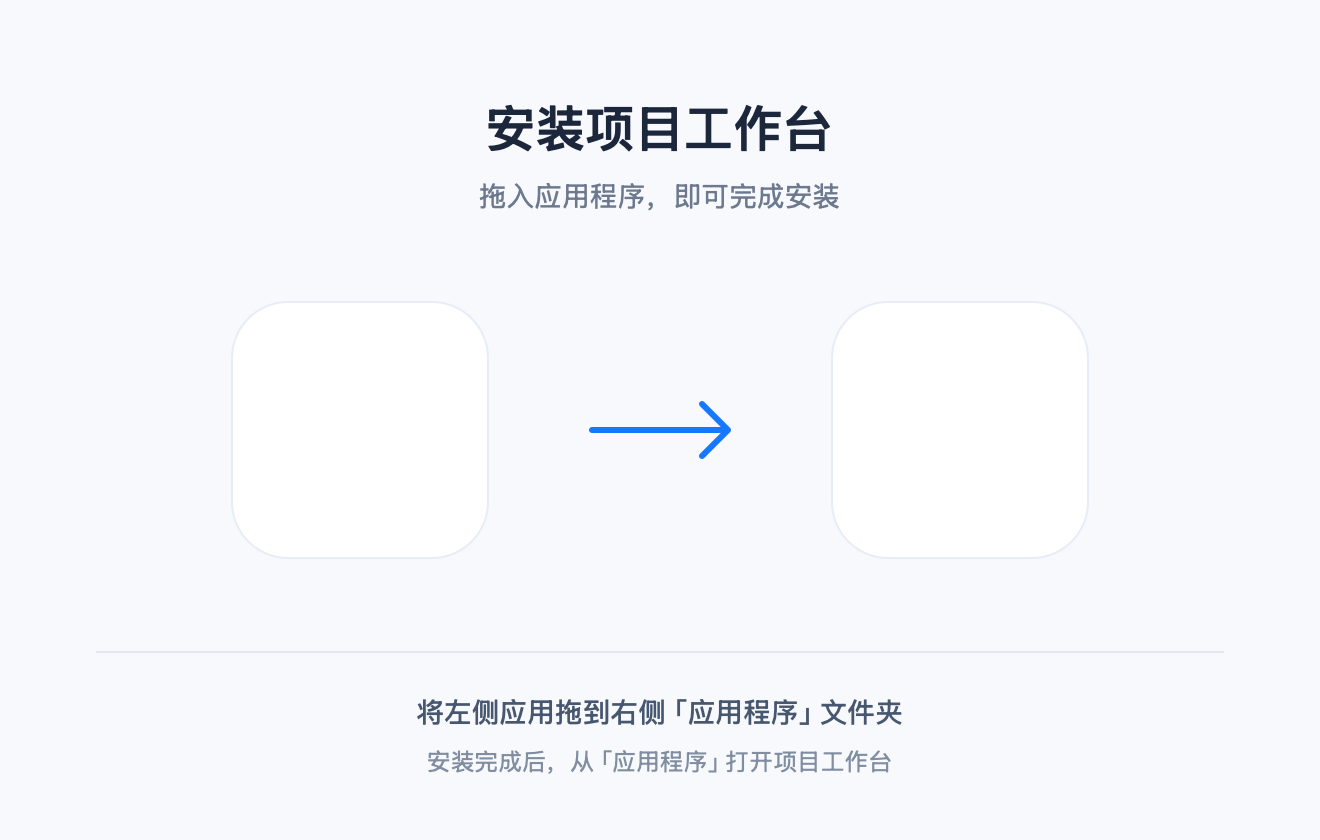
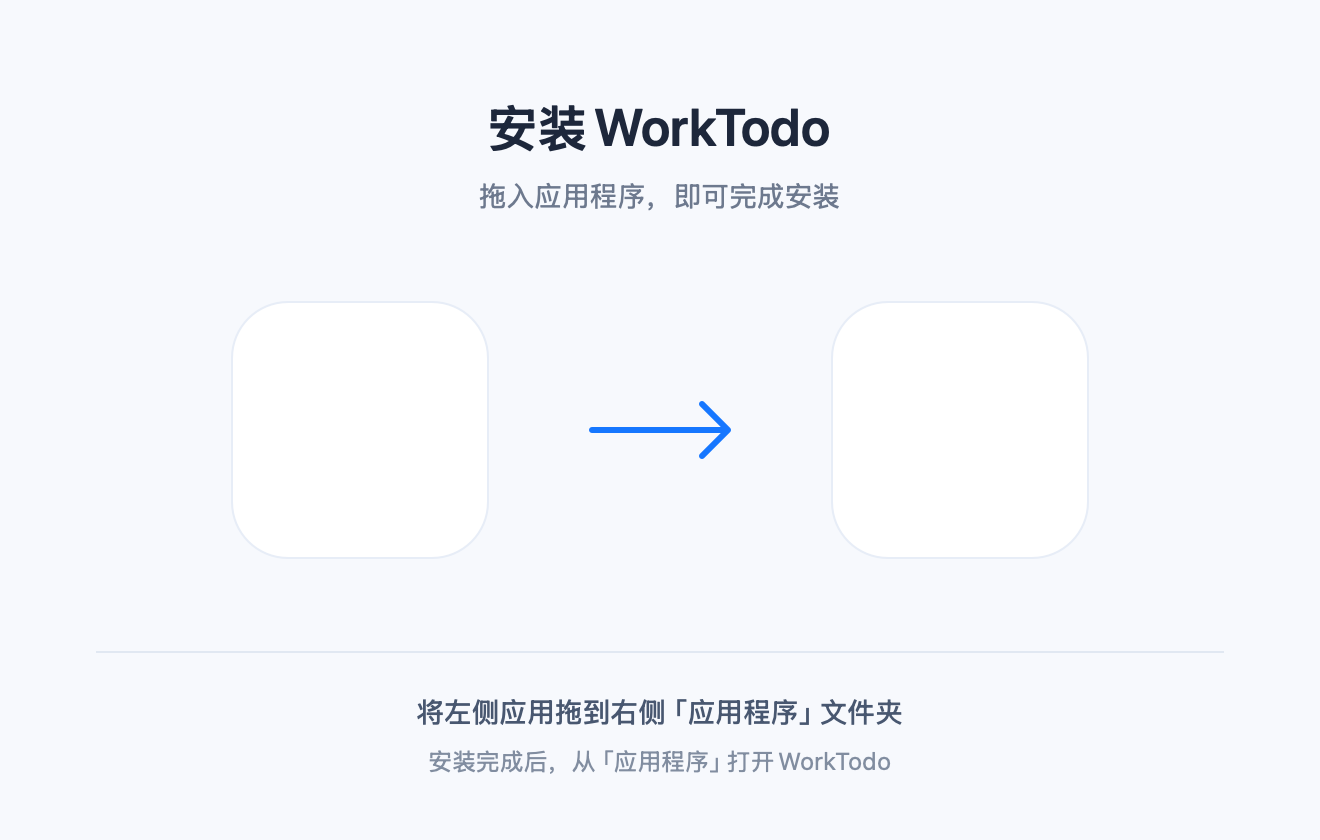
feat: 统一 WorkTodo 命名并规范 Release 应用资源
同步应用、系统菜单、安装界面和下载文件名称，保留原有数据标识兼容。新增 Windows 应用压缩包，发布阶段严格限定双平台安装包及应用 ZIP，内部校验报告不再作为 Release 附件。

Changed region(s): [[0.3727, 0.1238, 0.6212, 0.1857], [0.4348, 0.8976, 0.6833, 0.9286], [0.3106, 0.8976, 0.4038, 0.9286]]

diff --git a/scripts/generate-dmg-background.swift b/scripts/generate-dmg-background.swift
@@ -44,7 +44,7 @@ func text(_ value: String, y: CGFloat, size: CGFloat, weight: NSFont.Weight, ink
 color(247, 249, 253).setFill()
 NSBezierPath(rect: NSRect(x: 0, y: 0, width: width, height: height)).fill()
 
-text("安装项目工作台", y: 48, size: 26, weight: .semibold, ink: color(29, 39, 59))
+text("安装WorkTodo", y: 48, size: 26, weight: .semibold, ink: color(29, 39, 59))
 text("拖入应用程序，即可完成安装", y: 89, size: 14, weight: .regular, ink: color(109, 121, 142))
 
 // Subtle wells frame the real, draggable Finder icons.
@@ -76,7 +76,7 @@ divider.line(to: NSPoint(x: 612, y: 326))
 divider.lineWidth = 1
 divider.stroke()
 text("将左侧应用拖到右侧「应用程序」文件夹", y: 347, size: 14, weight: .medium, ink: color(72, 87, 112))
-text("安装完成后，从「应用程序」打开项目工作台", y: 373, size: 12, weight: .regular, ink: color(129, 141, 160))
+text("安装完成后，从「应用程序」打开WorkTodo", y: 373, size: 12, weight: .regular, ink: color(129, 141, 160))
 
 NSGraphicsContext.current = nil
 bitmap.size = NSSize(width: width, height: height)

diff --git a/src/pages/RemindersPage.vue b/src/pages/RemindersPage.vue
@@ -26,7 +26,7 @@ const notificationMessage = computed(() => {
   if (!status) return '正在检查系统通知…'
   if (!status.enabled) return '后台提醒已关闭'
   if (status.permission === 'notDetermined') return '开启系统通知后，待办到期会在电脑上提醒'
-  if (status.permission === 'denied') return '系统通知未开启，请在系统设置中允许项目工作台发送通知'
+  if (status.permission === 'denied') return '系统通知未开启，请在系统设置中允许WorkTodo发送通知'
   return status.error || '系统通知已开启'
 })
 async function loadNotificationStatus() {

diff --git a/src/pages/SettingsPage.vue b/src/pages/SettingsPage.vue
@@ -485,7 +485,7 @@ onUnmounted(() => {
             v-if="runtime.isMacos && (!runtime.middlePermission || needsInputMonitoring)"
             class="form-error"
           >
-            请在系统隐私设置中允许当前运行的“项目工作台”。授权后返回此处重新检测；如果系统要求退出应用，请从托盘退出后重新打开。
+            请在系统隐私设置中允许当前运行的“WorkTodo”。授权后返回此处重新检测；如果系统要求退出应用，请从托盘退出后重新打开。
           </p>
           <div class="dialog-footer">
             <NButton

diff --git a/src/components/AppShell.vue b/src/components/AppShell.vue
@@ -148,9 +148,9 @@ onUnmounted(() => {
   <div class="app-shell">
     <aside class="sidebar">
       <IconHint text="概览" :disabled="!compactSidebar"
-        ><RouterLink to="/" class="brand" aria-label="项目工作台"
+        ><RouterLink to="/" class="brand" aria-label="WorkTodo"
           ><span class="brand-symbol"><AppIcon name="brand" :size="23" /></span
-          ><span>项目工作台</span></RouterLink
+          ><span>WorkTodo</span></RouterLink
         ></IconHint
       >
       <nav aria-label="主导航">

diff --git a/src/components/AboutSettings.vue b/src/components/AboutSettings.vue
@@ -30,11 +30,11 @@ async function copyInfo() {
 </script>
 
 <template>
-  <section class="about-settings" aria-label="关于项目工作台">
+  <section class="about-settings" aria-label="关于WorkTodo">
     <div class="about-identity">
       <img src="/app-icon.svg" width="64" height="64" alt="" />
       <div>
-        <h2>项目工作台</h2>
+        <h2>WorkTodo</h2>
         <p class="about-version">
           v{{ release.info.version }}<span v-if="release.internal">内部测试版</span>
         </p>

diff --git a/src/stores/release.ts b/src/stores/release.ts
@@ -58,7 +58,7 @@ export const useReleaseStore = defineStore('release', () => {
   }
   const diagnostic = computed(() =>
     [
-      '项目工作台',
+      'WorkTodo',
       `版本：${info.value.version}${internal ? '（内部测试版）' : ''}${desktop ? '' : '（浏览器预览）'}`,
       `系统：${info.value.platform}`,
       `架构：${info.value.arch ?? '不适用'}`,

diff --git a/index.html b/index.html
@@ -5,7 +5,7 @@
     <meta name="viewport" content="width=device-width, initial-scale=1.0" />
     <meta name="theme-color" content="#1677FF" />
     <link rel="icon" type="image/svg+xml" href="/app-icon.svg" />
-    <title>项目工作台</title>
+    <title>WorkTodo</title>
   </head>
   <body>
     <div id="app"></div>

diff --git a/src-tauri/src/menu.rs b/src-tauri/src/menu.rs
@@ -4,7 +4,7 @@ use tauri::{
 };
 
 pub fn build<R: Runtime>(app: &AppHandle<R>) -> tauri::Result<Menu<R>> {
-    let name = app.config().product_name.as_deref().unwrap_or("项目工作台");
+    let name = app.config().product_name.as_deref().unwrap_or("WorkTodo");
     let about = AboutMetadata {
         name: Some(name.to_owned()),
         version: Some(app.package_info().version.to_string()),
@@ -40,7 +40,7 @@ pub fn build<R: Runtime>(app: &AppHandle<R>) -> tauri::Result<Menu<R>> {
         true,
         &[
             #[cfg(not(target_os = "macos"))]
-            &PredefinedMenuItem::about(app, Some("关于项目工作台"), Some(about))?,
+            &PredefinedMenuItem::about(app, Some("关于WorkTodo"), Some(about))?,
         ],
     )?;
 
@@ -53,15 +53,15 @@ pub fn build<R: Runtime>(app: &AppHandle<R>) -> tauri::Result<Menu<R>> {
                 name,
                 true,
                 &[
-                    &PredefinedMenuItem::about(app, Some("关于项目工作台"), Some(about))?,
+                    &PredefinedMenuItem::about(app, Some("关于WorkTodo"), Some(about))?,
                     &PredefinedMenuItem::separator(app)?,
                     &PredefinedMenuItem::services(app, Some("服务"))?,
                     &PredefinedMenuItem::separator(app)?,
-                    &PredefinedMenuItem::hide(app, Some("隐藏项目工作台"))?,
+                    &PredefinedMenuItem::hide(app, Some("隐藏WorkTodo"))?,
                     &PredefinedMenuItem::hide_others(app, Some("隐藏其他应用"))?,
                     &PredefinedMenuItem::show_all(app, Some("显示全部"))?,
                     &PredefinedMenuItem::separator(app)?,
-                    &PredefinedMenuItem::quit(app, Some("退出项目工作台"))?,
+                    &PredefinedMenuItem::quit(app, Some("退出WorkTodo"))?,
                 ],
             )?,
             &Submenu::with_items(
@@ -71,7 +71,7 @@ pub fn build<R: Runtime>(app: &AppHandle<R>) -> tauri::Result<Menu<R>> {
                 &[
                     &PredefinedMenuItem::close_window(app, Some("关闭窗口"))?,
                     #[cfg(not(target_os = "macos"))]
-                    &PredefinedMenuItem::quit(app, Some("退出项目工作台"))?,
+                    &PredefinedMenuItem::quit(app, Some("退出WorkTodo"))?,
                 ],
             )?,
             &Submenu::with_items(

diff --git a/src-tauri/src/commands.rs b/src-tauri/src/commands.rs
@@ -475,7 +475,7 @@ pub async fn data_action(
             .file()
             .set_title(match dialog_action.as_str() {
                 "backup" => "选择备份保存位置",
-                "restore" => "选择项目工作台备份文件夹",
+                "restore" => "选择WorkTodo备份文件夹",
                 "import" => "选择要导入为副本的项目文件夹",
                 _ => "选择新的存储文件夹",
             })
@@ -675,9 +675,9 @@ pub async fn notification_test(app: AppHandle) -> AppResult<()> {
         crate::notifications::permission(&app, true)?;
         crate::notifications::send(
             &app,
-            "project-manage-test",
+            "worktodo-test",
             -1,
-            "项目工作台",
+            "WorkTodo",
             "系统通知已连接",
             None,
         )

diff --git a/src-tauri/src/notifications.rs b/src-tauri/src/notifications.rs
@@ -79,7 +79,7 @@ pub fn send(
         if permission(app, false)? != "granted" {
             return Err(AppError::new(
                 "NOTIFICATION_PERMISSION",
-                "系统通知未开启，请允许项目工作台发送通知",
+                "系统通知未开启，请允许WorkTodo发送通知",
             ));
         }
         #[cfg(target_os = "macos")]
@@ -128,7 +128,7 @@ pub fn open_settings(app: &AppHandle) -> AppResult<()> {
         let _ = app;
         Err(AppError::new(
             "NOTIFICATION_ERROR",
-            "请在系统设置中打开项目工作台的通知权限",
+            "请在系统设置中打开WorkTodo的通知权限",
         ))
     }
     #[cfg(any(target_os = "macos", target_os = "windows"))]

diff --git a/src-tauri/src/portable/transfer.rs b/src-tauri/src/portable/transfer.rs
@@ -273,7 +273,7 @@ pub fn backup(bootstrap: &Path, destination: &Path) -> AppResult<PathBuf> {
         &json!({"format":2,"formatVersion":1,"recoveryCount":recovery_count,"recoveryNote":"恢复附录未自动合并到待办","appVersion":env!("CARGO_PKG_VERSION"),"createdAt":chrono::Utc::now().to_rfc3339(),"sha256":hashes}),
     )?;
     let final_path = destination.join(format!(
-        "项目工作台备份-{}-{}",
+        "WorkTodo备份-{}-{}",
         chrono::Utc::now().format("%Y%m%d-%H%M%S"),
         Uuid::new_v4()
     ));

diff --git a/src-tauri/src/notifications/macos.rs b/src-tauri/src/notifications/macos.rs
@@ -108,7 +108,7 @@ pub fn permission(request: bool) -> AppResult<String> {
     if NSBundle::mainBundle().bundleIdentifier().is_none() {
         return Err(AppError::new(
             "NOTIFICATION_UNAVAILABLE",
-            "请安装并打开项目工作台后使用系统通知",
+            "请安装并打开WorkTodo后使用系统通知",
         ));
     }
     let center = UNUserNotificationCenter::currentNotificationCenter();
